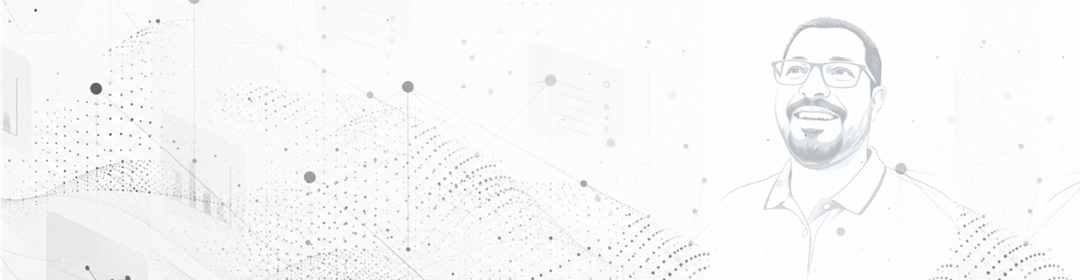
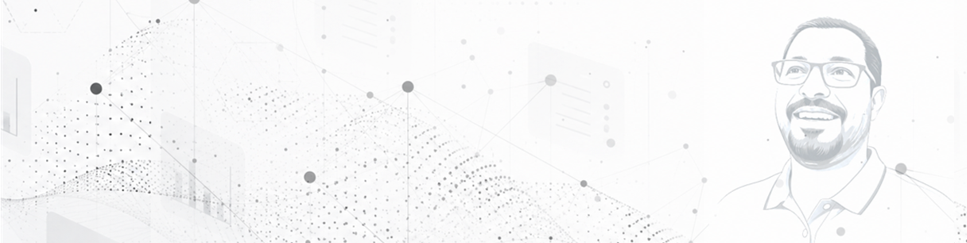
Publish latest article updates

diff --git a/src/Home.md b/src/Home.md
@@ -1,43 +1,27 @@
 # Home
 
-Welcome to the my Quiet Space!
-
 
 
 ![home_banner](images\home_banner.png)
 
-Most of the day, we live inside what we can see.
+Welcome to the my quiet space!
 
-Screens. Numbers. Meetings. Decisions. Deadlines.
+
+
+Most of the day, we live inside what we can see — screens, numbers, meetings, decisions.
 
 Then night comes.
 
-I make a cortado, sit in my favorite chair, and the visible world becomes a little quieter.
+I sit in my corner with my favorite drink, and everything gets quieter.
 
-Close your eyes for a moment.
+Space feels wider when you close your eyes.
 
-Darkness.
+That’s when I start seeing things differently - another pattern, another layer, another possibility.
 
-Yet somehow, that dark space feels larger than the room around you.
+And AI is there, thinking with me.
 
-That is where I like to think.
+*“Have you looked at it this way?”*
 
-Not only about what happened, but about what may be hiding behind it — another pattern, another layer, another way of seeing something I thought I already understood.
+Sometimes it becomes an article. Sometimes just a thought worth keeping.
 
-And somewhere beside the coffee, there is now AI.
-
-Not replacing the thinking. More like the strange friend who stays awake late enough to say:
-
-*"Okay… but have you looked at it this way?"*
-
-Sometimes that question becomes a memo.
-
-Sometimes an article.
-
-Sometimes just a thought worth keeping.
-
-So, welcome to my quiet corner of notes, reflections, and professional experiments.
-
-And occasionally, something hiding in the dark that becomes clearer when we stop looking directly at it.
-
-**Come in. Let’s see what we can’t see.**
+Come with me in this journey and read what AI whispers into my ear!
